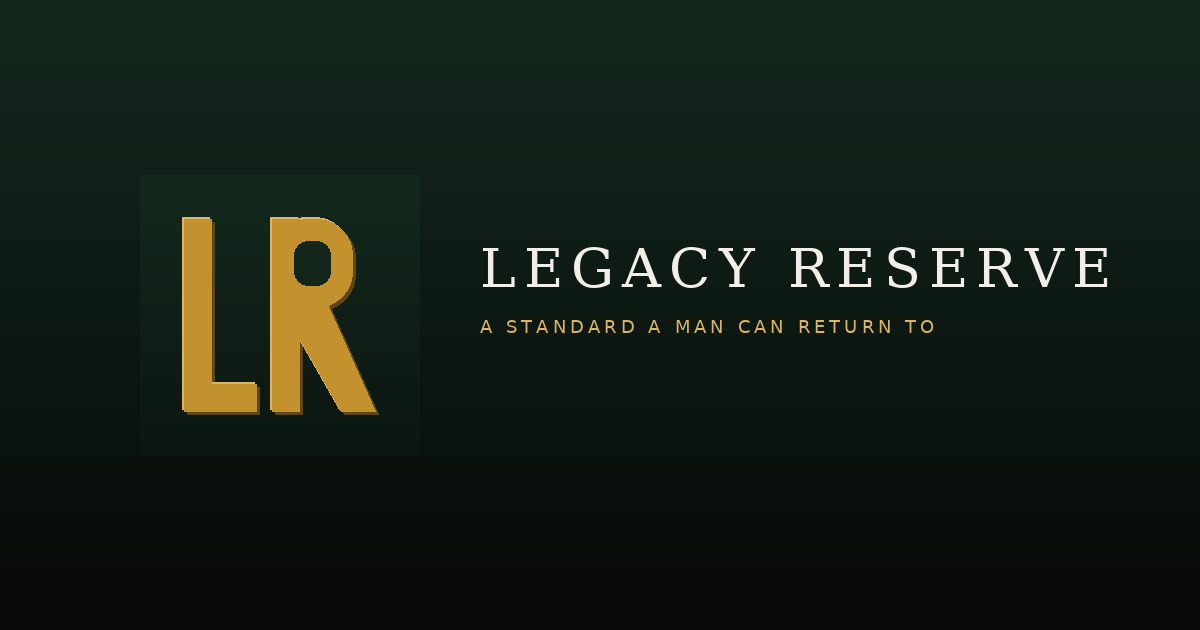
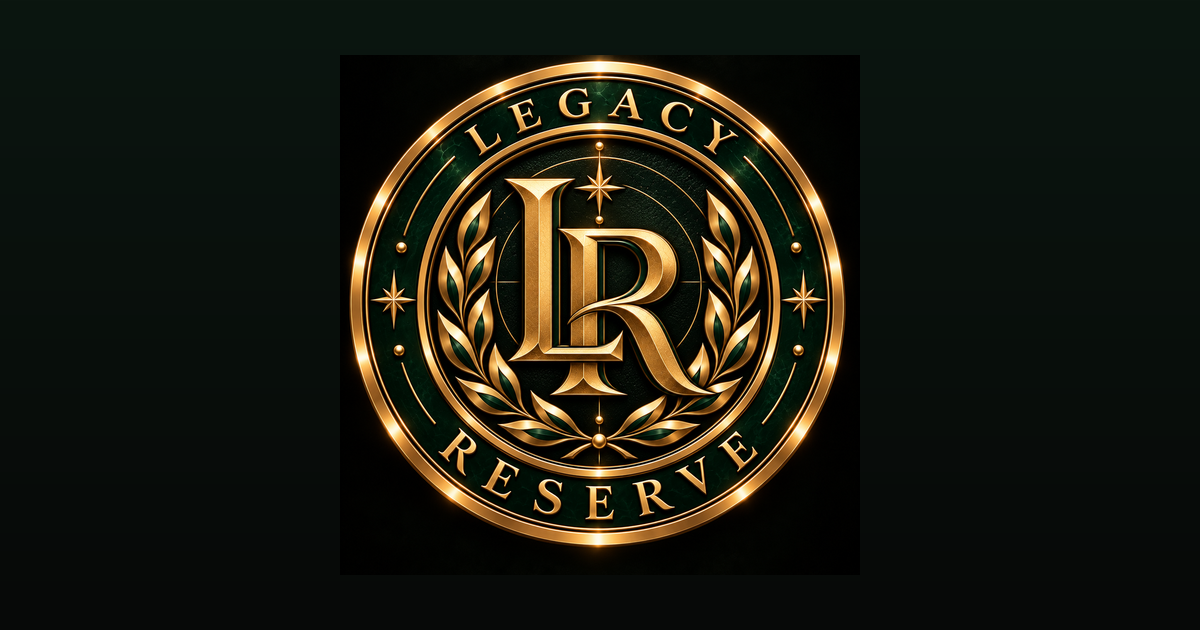
Install the official Legacy Reserve seal across the app and PWA.
Replace the derived letter mark with the founder-supplied circular seal for in-app chrome, favicon, Apple touch icon, Open Graph, and home-screen install icons.

Changed region(s): [[0.1542, 0.0603, 0.925, 0.8746]]

diff --git a/components/experience/threshold.tsx b/components/experience/threshold.tsx
@@ -39,7 +39,7 @@ export function Threshold() {
     <a href="#threshold-title" className="skip">Skip to entrance</a>
     <div className="threshold-room" aria-hidden="true"><Image src="/images/cinematic/reserve-hall.webp" alt="" fill sizes="100vw" priority /></div>
     <div className="threshold-wing threshold-wing-left" aria-hidden="true" /><div className="threshold-wing threshold-wing-right" aria-hidden="true" />
-    <div className="threshold-content" inert={entering}><p className="experience-kicker">LEGACY RESERVE — EUNICE</p><Image src="/brand/legacy-reserve/mark-ceremonial.png" width={136} height={136} alt="Legacy Reserve mark" priority /><p className="experience-kicker">A MEN’S INSTITUTION</p><h1 id="threshold-title" tabIndex={-1}>A place to arrive.<br /><em>A standard to return to.</em></h1><p>Appearance, grooming, membership, and the care between visits.</p><div className="threshold-actions"><Link href="/home" onClick={enter} className="button button-gold">Enter the Reserve</Link><Link href="/book" className="threshold-book">Book a visit ↗</Link></div><div className="threshold-quiet"><Link href="/home" onClick={remember}>Enter immediately</Link><Link prefetch={false} href="/signin">Sign in</Link></div><small>CONCEPT ENVIRONMENT · PRIVATE PILOT</small></div>
+    <div className="threshold-content" inert={entering}><p className="experience-kicker">LEGACY RESERVE — EUNICE</p><Image src="/brand/legacy-reserve/official-seal.webp" width={148} height={148} alt="Legacy Reserve official seal" priority /><p className="experience-kicker">A MEN’S INSTITUTION</p><h1 id="threshold-title" tabIndex={-1}>A place to arrive.<br /><em>A standard to return to.</em></h1><p>Appearance, grooming, membership, and the care between visits.</p><div className="threshold-actions"><Link href="/home" onClick={enter} className="button button-gold">Enter the Reserve</Link><Link href="/book" className="threshold-book">Book a visit ↗</Link></div><div className="threshold-quiet"><Link href="/home" onClick={remember}>Enter immediately</Link><Link prefetch={false} href="/signin">Sign in</Link></div><small>CONCEPT ENVIRONMENT · PRIVATE PILOT</small></div>
     {entering && <div className="threshold-progress"><p role="status">Opening Legacy Reserve…</p><a href="/home" onClick={() => { if (timer.current) clearTimeout(timer.current); }}>Enter immediately ↗</a></div>}
   </main>;
 }

diff --git a/tests/brand.test.ts b/tests/brand.test.ts
@@ -1,6 +1,6 @@
 import test from "node:test";
 import assert from "node:assert/strict";
-import { readFileSync } from "node:fs";
+import { existsSync, readFileSync } from "node:fs";
 import { brand, locationLabel } from "../lib/brand";
 import { commerceStatus, productConcepts } from "../lib/commerce";
 import { locationDisplayName, primaryLocation } from "../lib/experience/locations";
@@ -21,6 +21,25 @@ test("commerce remains a hook, not a rebuilt shop", () => {
   assert.equal(status.checkout, false);
   assert.equal(status.products.length, productConcepts.length);
   assert.ok(productConcepts.every((item) => item.alt.includes("Legacy Reserve")));
+});
+
+test("official seal drives installable and in-app marks", () => {
+  assert.match(brand.mark, /legacy-reserve/);
+  assert.match(brand.ceremonial, /official-seal/);
+  assert.match(brand.appIcon192, /app-icon-192/);
+  for (const file of [
+    "public/brand/legacy-reserve/official-seal.png",
+    "public/brand/legacy-reserve/official-seal.webp",
+    "public/brand/legacy-reserve/app-icon-180.png",
+    "public/brand/legacy-reserve/app-icon-192.png",
+    "public/brand/legacy-reserve/app-icon-512.png",
+    "public/brand/legacy-reserve/app-icon-maskable-512.png",
+    "app/icon.png",
+    "app/apple-icon.png",
+    "public/favicon.ico",
+  ]) {
+    assert.equal(existsSync(new URL(`../${file}`, import.meta.url)), true, file);
+  }
 });
 
 test("customer metadata and manifest no longer use Reserve at Sanctum", () => {

diff --git a/lib/experience/locations.ts b/lib/experience/locations.ts
@@ -27,7 +27,7 @@ export const locations: readonly ReserveLocation[] = [
     enabled: true,
     status: "operating",
     poster: "/images/cinematic/reserve-hall.webp",
-    crest: "/brand/legacy-reserve/mark-gold.png",
+    crest: "/brand/legacy-reserve/mark-gold.webp",
   },
   {
     id: "lafayette",
@@ -39,7 +39,7 @@ export const locations: readonly ReserveLocation[] = [
     enabled: false,
     status: "planned",
     poster: "/images/cinematic/reserve-hall.webp",
-    crest: "/brand/legacy-reserve/mark-gold.png",
+    crest: "/brand/legacy-reserve/mark-gold.webp",
   },
   {
     id: "austin",
@@ -51,7 +51,7 @@ export const locations: readonly ReserveLocation[] = [
     enabled: false,
     status: "planned",
     poster: "/images/cinematic/reserve-hall.webp",
-    crest: "/brand/legacy-reserve/mark-gold.png",
+    crest: "/brand/legacy-reserve/mark-gold.webp",
   },
   {
     id: "dallas",
@@ -63,7 +63,7 @@ export const locations: readonly ReserveLocation[] = [
     enabled: false,
     status: "planned",
     poster: "/images/cinematic/reserve-hall.webp",
-    crest: "/brand/legacy-reserve/mark-gold.png",
+    crest: "/brand/legacy-reserve/mark-gold.webp",
   },
 ] as const;
 

diff --git a/app/setup/page.tsx b/app/setup/page.tsx
@@ -25,9 +25,9 @@ export default async function Page({ searchParams }: { searchParams: Promise<{ h
         internet connection for visits and client information.
       </p>
       <section className="reserve-install-release" aria-label="Current Legacy Reserve release">
-        <Image src="/brand/legacy-reserve/app-icon-192.png" width={96} height={96} alt="Current Legacy Reserve app icon: gold LR on heritage green" priority />
+        <Image src="/brand/legacy-reserve/app-icon-192.png" width={96} height={96} alt="Official Legacy Reserve app icon: gold LR seal" priority />
         <h2>{reserveReleaseLabel}</h2>
-        <p>This is the current Legacy Reserve icon. If yours still shows the previous emblem, remove the old installed app or shortcut and install from the stable address below.</p>
+        <p>This is the official Legacy Reserve seal. If your phone still shows the previous RS or letter-only icon, remove the old installed app or shortcut and install again from the address below.</p>
         <a className="text-link" href="https://www.reserveatsanctum.app/">Open the live house ↗</a>
         <p>You can install and explore before signing in.</p>
       </section>

diff --git a/lib/brand.ts b/lib/brand.ts
@@ -11,12 +11,15 @@ export const brand = {
   titleDefault: "Legacy Reserve — A standard a man can return to.",
   titleTemplate: "%s · Legacy Reserve",
   enterCta: "Enter the Reserve",
-  mark: "/brand/legacy-reserve/mark-gold.png",
-  ceremonial: "/brand/legacy-reserve/mark-ceremonial.png",
+  mark: "/brand/legacy-reserve/mark-gold.webp",
+  ceremonial: "/brand/legacy-reserve/official-seal.webp",
+  official: "/brand/legacy-reserve/official-seal.webp",
   appIcon180: "/brand/legacy-reserve/app-icon-180.png",
   appIcon192: "/brand/legacy-reserve/app-icon-192.png",
   appIcon512: "/brand/legacy-reserve/app-icon-512.png",
   appIconMaskable: "/brand/legacy-reserve/app-icon-maskable-512.png",
+  favicon32: "/brand/legacy-reserve/favicon-32.png",
+  favicon48: "/brand/legacy-reserve/favicon-48.png",
   openGraph: "/brand/legacy-reserve/open-graph.png",
   themeColor: "#0B1610",
   backgroundColor: "#070908",

diff --git a/components/experience/account-entrance.tsx b/components/experience/account-entrance.tsx
@@ -5,7 +5,7 @@ import { safeDestination } from '@/lib/experience/entry';
 /** Render no private data and never redirect merely because a session expires. */
 export function AccountEntrance({ next }: { next: string }) {
   return <main id="main" className="reserve-account-entrance">
-    <Image src="/brand/legacy-reserve/mark-gold.png" alt="Legacy Reserve mark" width={80} height={80} priority />
+    <Image src="/brand/legacy-reserve/official-seal.webp" alt="Legacy Reserve official seal" width={96} height={96} priority />
     <p className="experience-kicker">YOUR PLACE AT LEGACY RESERVE</p>
     <h1>Your house.<br /><em>When you’re ready.</em></h1>
     <p>Sign in to see your private visits and saved preferences. You can keep exploring without an account.</p>

diff --git a/components/living-emblem.tsx b/components/living-emblem.tsx
@@ -5,7 +5,7 @@ import { Pause, Play } from "lucide-react";
 import { useRef, useState } from "react";
 
 const marks = {
-  reserve: { src: "/brand/legacy-reserve/mark-ceremonial.png", alt: "Legacy Reserve ceremonial mark", name: "Legacy Reserve" },
+  reserve: { src: "/brand/legacy-reserve/official-seal.webp", alt: "Legacy Reserve official seal", name: "Legacy Reserve" },
   fix: { src: "/images/cinematic/fix-it-seal.webp", alt: "Fix It Shop emblem", name: "Fix It Shop" },
   gent: { src: "/images/cinematic/gent-ascend-seal.webp", alt: "Gent Ascend Collective emblem", name: "Gent Ascend Collective" },
 } as const;

diff --git a/components/experience/chrome.tsx b/components/experience/chrome.tsx
@@ -17,7 +17,7 @@ export function ExperienceChrome({children, footer}: {children: React.ReactNode;
       <a className="skip" href="#main">Skip to content</a>
       <header className="experience-header">
         <Link prefetch={false} href="/enter" className="experience-brand">
-          <Image src={brand.mark} alt="" width={42} height={42} />
+          <Image src={brand.mark} alt="" width={48} height={48} />
           <span>{brand.wordmark}<small>{locationDisplayName(primaryLocation.id).toUpperCase()}</small></span>
         </Link>
         <nav aria-label="Legacy Reserve navigation">

diff --git a/app/layout.tsx b/app/layout.tsx
@@ -70,8 +70,10 @@ export const metadata: Metadata = {
   description: brand.description,
   icons: {
     icon: [
-      { url: "/icon.svg", type: "image/svg+xml" },
+      { url: brand.favicon32, sizes: "32x32", type: "image/png" },
+      { url: brand.favicon48, sizes: "48x48", type: "image/png" },
       { url: brand.appIcon192, sizes: "192x192", type: "image/png" },
+      { url: brand.appIcon512, sizes: "512x512", type: "image/png" },
     ],
     apple: [{ url: brand.appIcon180, sizes: "180x180", type: "image/png" }],
   },

diff --git a/app/signin/page.tsx b/app/signin/page.tsx
@@ -30,7 +30,7 @@ export default async function Page({
   return (
     <main id="main" className="inner-page section signin-page">
       <div>
-        <Image src="/brand/legacy-reserve/mark-gold.png" width={80} height={80} alt="Legacy Reserve mark" priority />
+        <Image src="/brand/legacy-reserve/official-seal.webp" width={96} height={96} alt="Legacy Reserve official seal" priority />
         <p className="eyebrow">YOUR PLACE AT LEGACY RESERVE</p>
         <h1>
           Welcome <em>back.</em>

diff --git a/app/studio/layout.tsx b/app/studio/layout.tsx
@@ -36,7 +36,7 @@ export default async function StudioLayout({
           <Link href="/studio" className="studio-wordmark">
             <span className="studio-monogram">
               <Image
-                src="/brand/legacy-reserve/mark-gold.png"
+                src="/brand/legacy-reserve/mark-gold.webp"
                 alt=""
                 width={32}
                 height={32}

diff --git a/lib/experience/release.ts b/lib/experience/release.ts
@@ -1,2 +1,2 @@
-export const reserveRelease = "legacy-reserve-20261006";
-export const reserveReleaseLabel = "Legacy Reserve identity · October 6, 2026";
+export const reserveRelease = "legacy-reserve-official-seal-20261006";
+export const reserveReleaseLabel = "Official Legacy Reserve seal · October 6, 2026";
